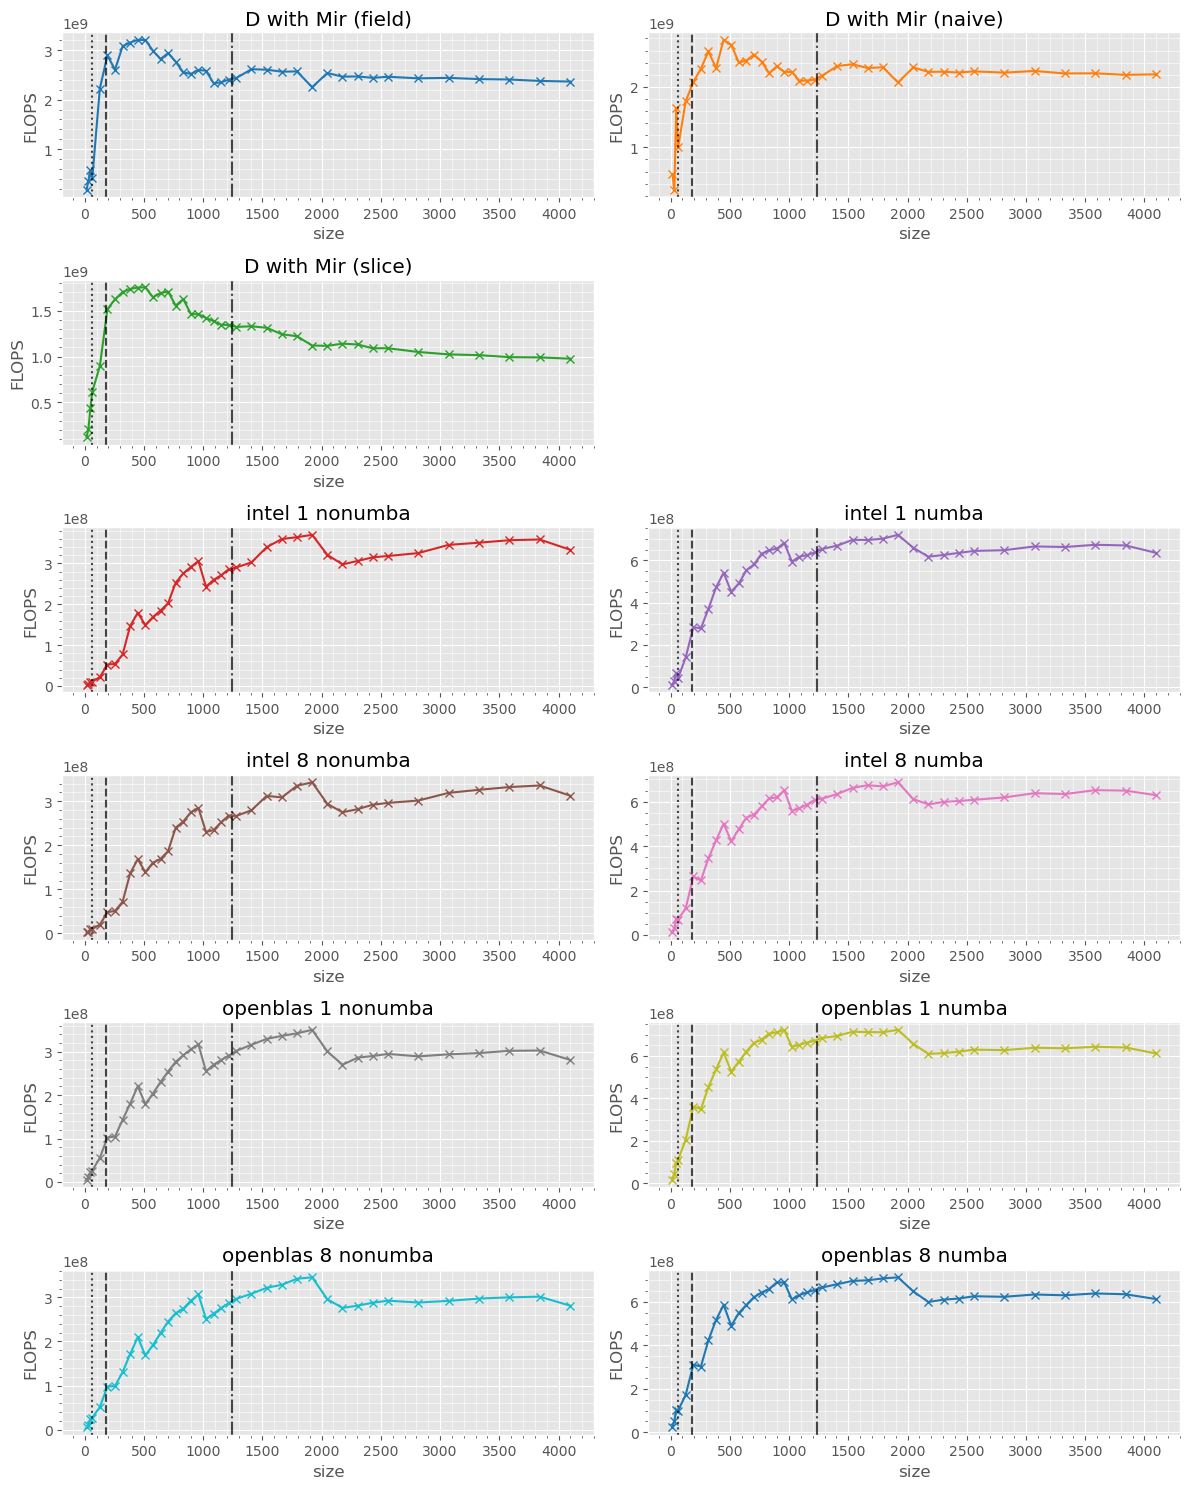
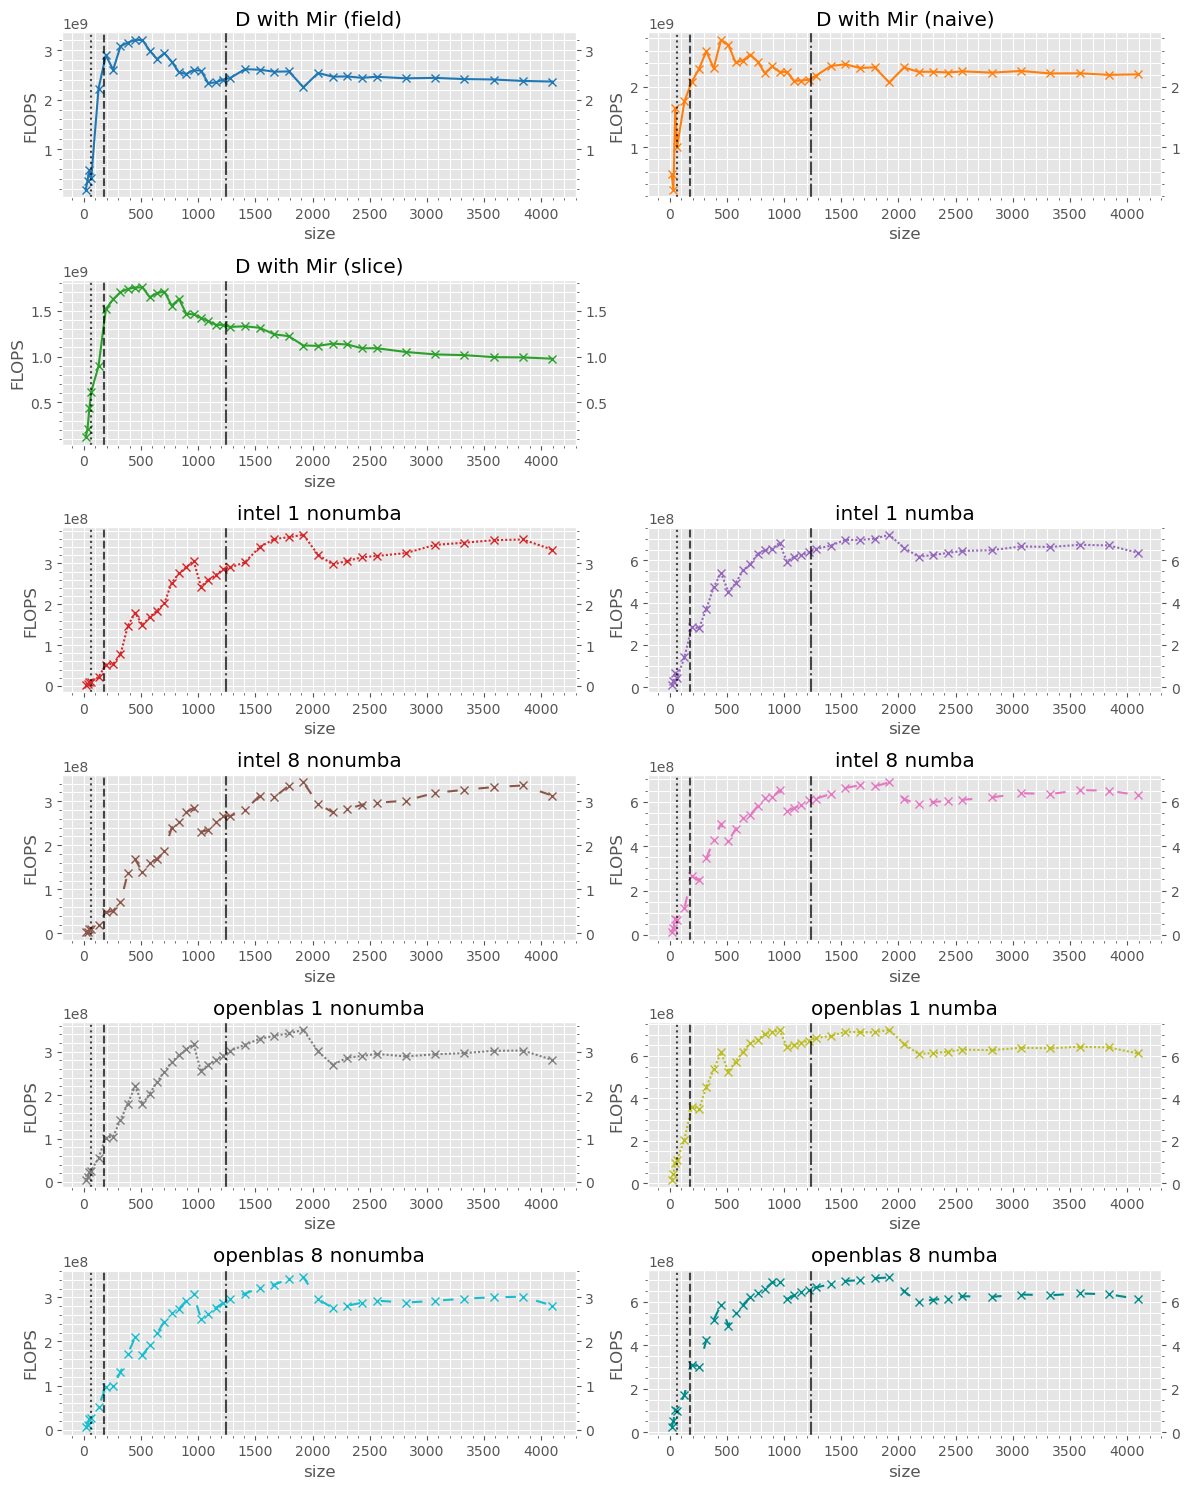
made coloring and linestyle more consistent throughout the pictures

diff --git a/scripts/data.py b/scripts/data.py
@@ -22,6 +22,10 @@ import numpy as np
 import pandas as pd
 
 plt.rcParams['figure.figsize'] = (16, 9)
+plt.rcParams['ytick.labelright'] = True
+plt.rcParams['ytick.right'] = True
+plt.rcParams['axes.grid'] = True
+plt.rcParams['axes.grid.which'] = 'both'
 plt.style.use('ggplot')
 
 DEFAULT_FILE = '../Python/results/outfile_cip1e3_1609_intel_1_numba'
@@ -40,6 +44,7 @@ NAMES = [
     '256b_packed_single',
     'empty',
 ]
+
 
 parser = optparse.OptionParser(usage="usage: %prog [options] files...")
 parser.add_option('-o',
@@ -69,6 +74,16 @@ parser.add_option(
 
 options, args = parser.parse_args()
 
+COLORS = cycle([*mcolor.TABLEAU_COLORS.keys(), 'darkcyan'])
+COLOR_TABLE = {}
+
+
+def name_2_color(name):
+    if name not in COLOR_TABLE:
+        COLOR_TABLE[name] = next(COLORS)
+
+    return COLOR_TABLE[name]
+
 
 def read_file(path):
     """ reads the outfiles and extracts the data and infos """
@@ -96,23 +111,41 @@ def read_file(path):
         return infos, df
 
 
-def flops(df, label, color=None):
-    df.FLOPS.plot(label=label, marker='x', color=color)
+def name_2_linestyle(name):
+    if '1' in name:
+        return (0, (1, 1))  # densly dotted
+    if '8' in name:
+        return (0, (5, 10))  # loosley dashed
+    return '-'
+
+
+def flops(df, label=None):
+    df.FLOPS.plot(
+        label=label,
+        marker='x',
+        color=name_2_color(label),
+        ls=name_2_linestyle(label))
     plt.ylabel('FLOP/s')
 
 
-def flop(df, label, color):
-    df.FLOP.plot(label=label, color=color)
+def flop(df, label):
+    df.FLOP.plot(
+        label=label,
+        color=name_2_color(label),
+        ls=name_2_linestyle(label))
     plt.ylabel('Flop')
 
 
-def time(df, label, color):
-    df.time.plot(label=label, color=color)
+def time(df, label):
+    df.time.plot(
+        label=label,
+        color=name_2_color(label),
+        ls=name_2_linestyle(label))
     plt.ylabel('time in s')
 
 
-def cycles(df, label, color):
-    df.cycles.plot(label=label, marker='x', color=color)
+def cycles(df, label):
+    df.cycles.plot(label=label, marker='x', color=name_2_color(label))
     plt.ylabel('Number of used MG-Cycels')
 
 
@@ -184,7 +217,6 @@ def plot_membandwidth(fig):
 
 
 def subplots(frames, base_path, column):
-    color = cycle(mcolor.TABLEAU_COLORS.keys())
     plt.clf()
 
     fig, axes = plt.subplots((len(frames) + 1) // 2,
@@ -199,18 +231,12 @@ def subplots(frames, base_path, column):
         name, df = frame
         axe = overflow and axes.flat[i] if i < 3 else axes.flat[i + 1]
         g = df[column]
-        g.plot(label=name, ax=axe, marker='x', color=next(color))
-        # axe.grid(
-        #     color='w',
-        #     linestyle='-',
-        #     linewidth=0.3,
-        #     alpha=0.5,
-        #     which='major')
-        axe.grid(
-            color='w',
-            linestyle='-',
-            linewidth=0.4,
-            which='minor')
+        g.plot(
+            label=name,
+            ax=axe,
+            marker='x',
+            color=name_2_color(name),
+            ls=name_2_linestyle(name))
 
         axe.set(ylabel=column)
         axe.minorticks_on()
@@ -223,15 +249,12 @@ def subplots(frames, base_path, column):
 
 def plot(frames, func, base_path, title):
     plt.clf()
-    color = cycle(mcolor.TABLEAU_COLORS.keys())
     if func.__name__ == 'flops' and len(frames) == 11:
         plot_membandwidth(plt)
     plt.title(title)
     for name, df in frames:
-        func(df, name, next(color))
+        func(df, name)
     plt.minorticks_on()
-    # plt.grid(color='w', linestyle='-', linewidth=0.3, alpha=0.5, which='major')
-    plt.grid(color='w', linestyle='-', linewidth=0.4, which='minor')
     plot_cache_lines(plt)
     plt.legend(ncol=2)
 
